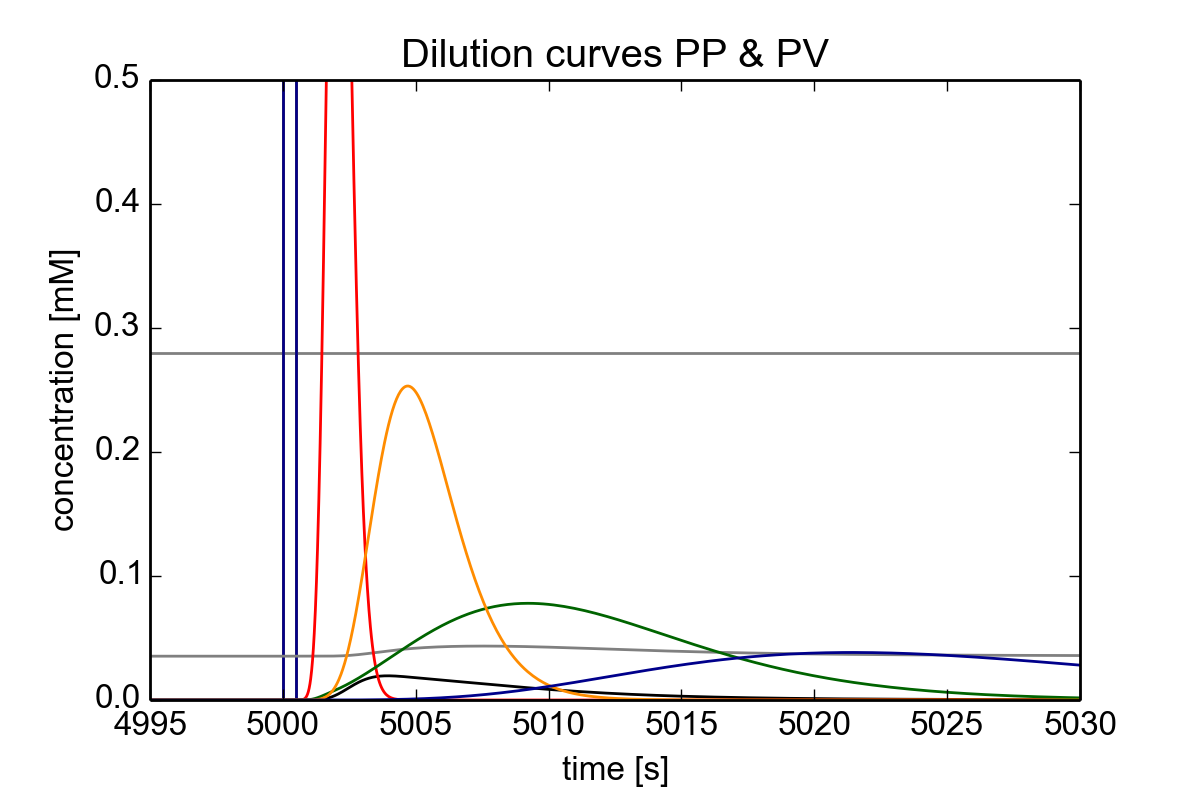
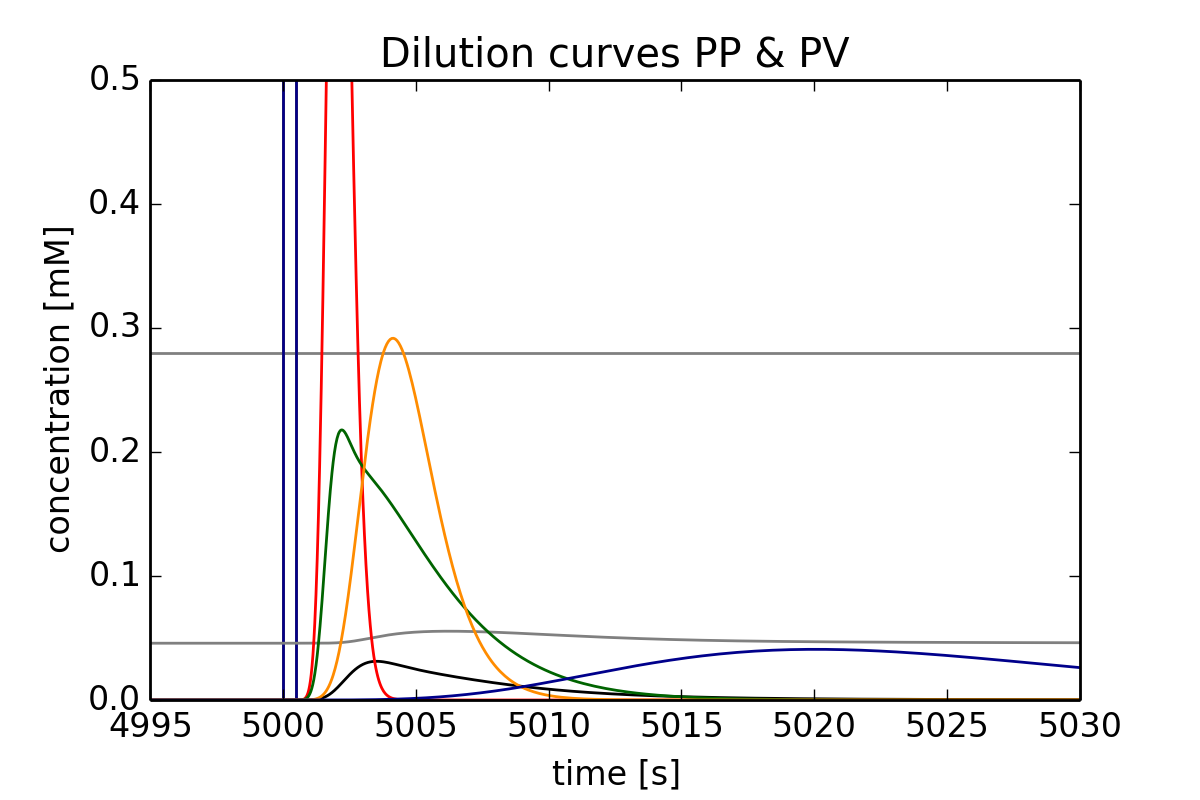
Integration over pressure distribution

diff --git a/python/simulator/simulator/roadrunner_tools/galactose_dilution_pressure.py b/python/simulator/simulator/roadrunner_tools/galactose_dilution_pressure.py
@@ -1,0 +1,145 @@
+# -*- coding: utf-8 -*-
+"""
+Dilution curves via integration over the distribution of pressures, resulting
+in distribution of flows.
+The advanced model uses the actual pressures to calculate the fluxes with
+the given geometry.
+
+@author: Matthias Koenig
+@date: 2015-04-13
+"""
+import numpy as np
+import copy
+import galactose_functions as gf
+import roadrunner_tools as rt
+import roadrunner_plots as rp
+import galactose_settings as settings
+
+reload(settings)
+reload(rp)
+reload(gf)
+
+#########################################################################    
+# Flux integration of curves
+#########################################################################  
+# sbml_file = SBML_DIR + '/' + 'Galactose_v{}_Nc20_dilution_gauss.xml'.format(VERSION)
+sbml_file = settings.SBML_DIR + '/' + 'Galactose_v{}_Nc20_dilution.xml'.format(settings.VERSION)
+r = rt.load_model(sbml_file)
+
+# selection
+inits = {}
+sel = ['time']
+sel += [ "".join(["[", item, "]"]) for item in ['PV__alb', 'PV__gal', 'PV__galM', 'PV__h2oM', 'PV__rbcM', "PV__suc"]]
+sel += [ "".join(["[", item, "]"]) for item in r.model.getBoundarySpeciesIds()]
+sel += [ "".join(["[", item, "]"]) for item in r.model.getFloatingSpeciesIds() if item.startswith('H')]
+sel += [ "".join(["[", item, "]"]) for item in r.model.getFloatingSpeciesIds() if item.startswith('D')]
+sel += [item for item in r.model.getReactionIds() if item.startswith('H')]
+sel += [item for item in r.model.getReactionIds() if item.startswith('D')]
+sel += ['PP_Q']
+sel_dict = rt.set_selection(r, sel)
+
+# distribution of pressures
+reload(gf)
+
+pressure = gf.pressure_sample() # [mmHg]
+p_pressure = gf.pressure_probability(pressure)
+
+f_Pa_per_mmHg = 133.322
+pressure = pressure * f_Pa_per_mmHg # [Pa]
+
+# TODO: The volume flow becomes challenging now
+# f_fac = 0.5
+f_fac = 1.0
+
+# Not simple scaling, but scaling from the offset of perivenious flow
+# TODO
+pressure_sin = f_fac * pressure # [m/s] (scaling to calculate in correct volume flow range)
+
+
+
+#########################################################################    
+# Set parameters and integrate
+######################################################################### 
+# Define the parameters
+# The parameters are extended via the fluxes. I.e. for all fluxes in the
+# flux sample the simulation is performed.
+reload(settings)
+gal_p_list = []
+# for gal in [0.28]:
+for gal in [0.28, 12.5, 17.5]:
+    p_list = []
+    for pa in pressure_sin:
+        d = copy.deepcopy(settings.D_TEMPLATE) 
+        d["[PP__gal]"] = gal
+        d["Pa"] = pa
+        d["scale_f"] = r.scale_f/2    # dog half GEC 
+        p_list.append(d)
+    gal_p_list.append(p_list)
+print(gal_p_list)
+
+reload(rt)
+gal_f_list = []
+for k, p_list in enumerate(gal_p_list):
+    f_list = [rt.simulation(r, parameters=p, inits=inits, absTol=1E-3, relTol=1E-3) for p in p_list]
+    gal_f_list.append(f_list)
+
+# store the parameters
+with open("flux_plots/parameters.txt", 'wb') as f:
+    print>>f, p_list
+
+#########################################################################    
+# Average
+#########################################################################  
+# Average via probability and flux weighted summation
+# Get the actual flux for the given simulation
+
+# TODO: Necessary to readout variables during the integration for the subsequent
+# calculation
+# Q_sinunit = PP_Q
+# 
+Q_sinunit = np.pi * r.y_sin**2 * flow_sin # [m³/s]
+weights = p_flux * Q_sinunit
+weights = weights/sum(weights)
+
+compounds = ['gal', 'galM', 'rbcM', 'alb', 'suc', 'h2oM']
+ids = ['[PV__{}]'.format(id) for id in compounds]    
+cols = ['gray', 'black', 'red', 'darkgreen', 'darkorange', 'darkblue']
+
+timepoints=np.arange(settings.T_PEAK-5, settings.T_PEAK+35, 0.01)
+av_mats = []
+for f_list in gal_f_list:
+    av_mats.append(gf.average_results(f_list, weights, ids, timepoints, sel))
+
+#########################################################################    
+# Dilution data
+######################################################################### 
+# load experimental data
+exp_file = '/home/mkoenig/multiscale-galactose/results/dilution/Goresky_processed.csv'
+exp_data = rp.load_dilution_data(exp_file)
+# rp.plot_dilution_data(exp_data)
+
+#########################################################################    
+# Plots
+######################################################################### 
+reload(rp)
+show_plots=True
+
+# flux dependency of dilution profiles
+tlim = [settings.T_PEAK-4, settings.T_PEAK+20]
+rp.flux_plots(f_list, sel, xlim=tlim, show=show_plots)
+# average curves
+# rp.average_plots(timepoints, av_mats, xlim=tlim, show=show_plots)
+    
+
+rp.plot_data_with_sim(exp_data, timepoints, av_mats, scale=4.0*15.16943, time_shift=1.0)
+rp.plot_gal_data_with_sim(exp_data, timepoints, av_mats, scale=4.0*15.16943, time_shift=1.0)   
+ 
+
+# additional information
+# plot single timecourses
+rp.flux_plot(f_list, name='GLUT2_GALM', selections=sel, comp_type="D")
+rp.flux_plot(f_list, name='GALKM', selections=sel)
+rp.flux_plot(f_list, name='galM', selections=sel, xlim=tlim)
+
+rp.flux_plot(f_list, name='galM', selections=sel, xlim=tlim, comp_type="H")
+rp.flux_plot(f_list, name='galM', selections=sel, xlim=tlim, comp_type="D")

diff --git a/python/simulator/simulator/roadrunner_tools/galactose_functions.py b/python/simulator/simulator/roadrunner_tools/galactose_functions.py
@@ -12,15 +12,19 @@ from roadrunner_tools import selection_dict
 
 ##  Distribution of fluxes  ##################################################
 def flux_sample():
-    # definition of fluxes
-    # flux = np.arange(start=10, stop=750, step=50) *1E-6
+    ''' 
+    Returns sampled fluxes for the integration.
+    '''
     flux = np.arange(start=10, stop=800, step=50) *1E-6
-    
-    flux = np.sort(flux)
-    return flux
+    return np.sort(flux)
 
 
 def flux_probability(flux):
+    '''
+    Returns probability for given flux based on probability
+    distribution of fluxes.
+    TODO: this is hardcoded and should be read from the fitted parameters.
+    '''
     import pylab as plt
     x = np.linspace(0.1E-6, 1100E-6, num=400) # values for x-axis
     # mu = -8.358303    # dtmp['meanlog']
@@ -36,6 +40,42 @@ def flux_probability(flux):
     plt.plot(flux, p_flux)
     return p_flux
     
+    
+def pressure_sample(Pb=2.0):
+    '''
+    Returns sampled periportal pressures for the integration in [mmHg].
+    
+    Lognormal pressure distribution in [mmHg] 
+    mean =  4.4 , meanlog =  1.309539 
+    std =  2.82 , stdlog =  0.5866274
+    Pb = 2 [mmHg] 
+    '''
+    pressure = np.arange(start=Pb + 0.5, stop=18, step=1.5)
+    return np.sort(pressure)
+
+
+def pressure_probability(pressure, Pb=2.0):
+    '''
+    Returns probability for given pressure based on probability
+    distribution of fluxes.
+    TODO: this is hardcoded and should use the fitted parameter values.
+    
+    Careful with the offset of perivenous pressure.
+    '''
+    import pylab as plt
+    x = np.linspace(0, 40, num=400) # values for x-axis
+    
+    mu = 1.309539    # dtmp['meanlog']
+    sigma = 0.5866274 # dtmp['sdlog']
+    
+    pdf = stats.lognorm.pdf(x, sigma, loc=0, scale=np.exp(mu))
+    plt.figure(figsize=(12,4.5))
+    plt.plot(x+Pb, pdf)
+    
+    p_pressure = stats.lognorm.pdf(pressure-Pb, sigma, loc=0, scale=np.exp(mu))
+    plt.plot(pressure, p_pressure)
+    return p_pressure
+
 
  
 def average_results(f_list, weights, ids, time, selections):

diff --git a/python/simulator/simulator/roadrunner_tools/roadrunner_tools.py b/python/simulator/simulator/roadrunner_tools/roadrunner_tools.py
@@ -100,6 +100,10 @@ def simulation(r, parameters, inits, absTol=1E-8, relTol=1E-8):
     s = r.simulate(0, 10000, absolute=absTol, relative=relTol, variableStep=True, stiff=True, plot=False)      
     print 'Integration time:', (time.clock()- start)
     
+    # For reading out variables, put them into the selection
+    # or apply the changes again to the model.
+    # print 'PP_Q', r['PP_Q']
+    
     # reset parameter changes    
     _set_parameters(r, changed)
     r.reset(SelectionRecord.INITIAL_GLOBAL_PARAMETER)
